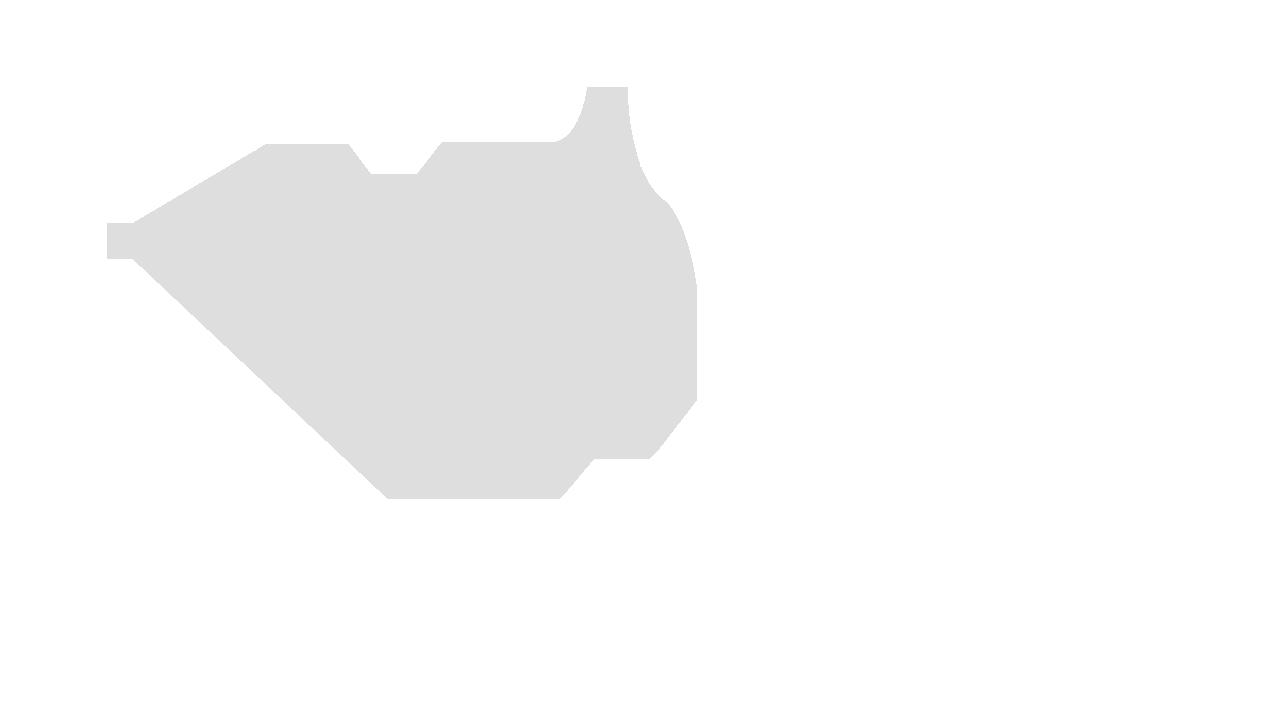
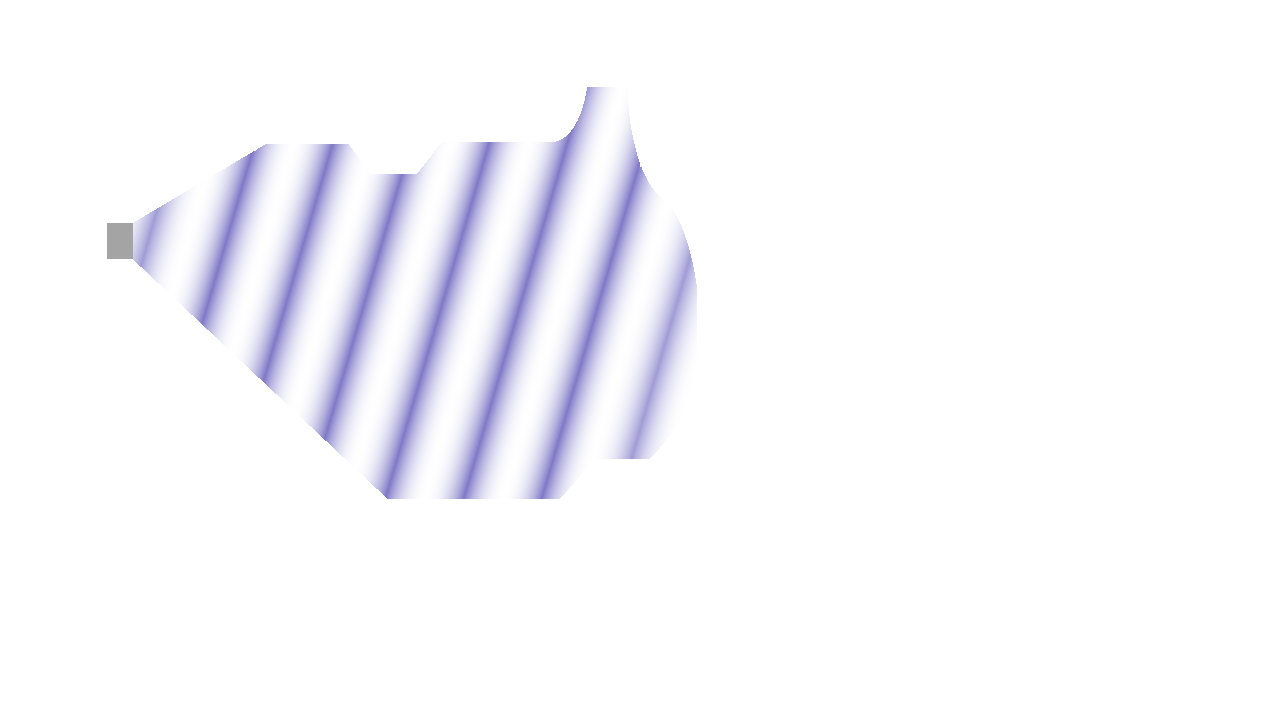
update graphics, make bumpers more horizontal

Changed region(s): [[0.0625, 0.1222, 0.5625, 0.7028]]

diff --git a/games/pinball/source/bumper.h b/games/pinball/source/bumper.h
@@ -30,8 +30,8 @@ class Bumper {
         float m_sensorRadius = 0.32;
         int m_flashFrames = 16;
         int m_flashFrameCurrent = m_flashFrames;
-        vector<float> m_leftCenter = {140, 140};
-        vector<float> m_rightCenter = {140, 540};
+        vector<float> m_leftCenter = {140, 120};
+        vector<float> m_rightCenter = {140, 560};
         vector<float> m_leftKickerCenter = {-20, 32};
         vector<float> m_rightKickerCenter = {-20, 640};
         vector<vector<float>> m_centers = {m_leftCenter, m_rightCenter, m_leftKickerCenter, m_rightKickerCenter};

diff --git a/games/pinball/source/pinball.h b/games/pinball/source/pinball.h
@@ -42,7 +42,7 @@ class Pinball {
             2.0f, 6.9f, // Launch tube
             6.94f, 6.02f, // Right lock ball ejector
             7.4f, 4.3f, // Middle lock ball ejector
-            10.2f, 0.5f // Left lock ball ejector
+            10.4f, 0.5f // Left lock ball ejector
         };
         bool m_ballOut = false;
         bool m_removed = false;
